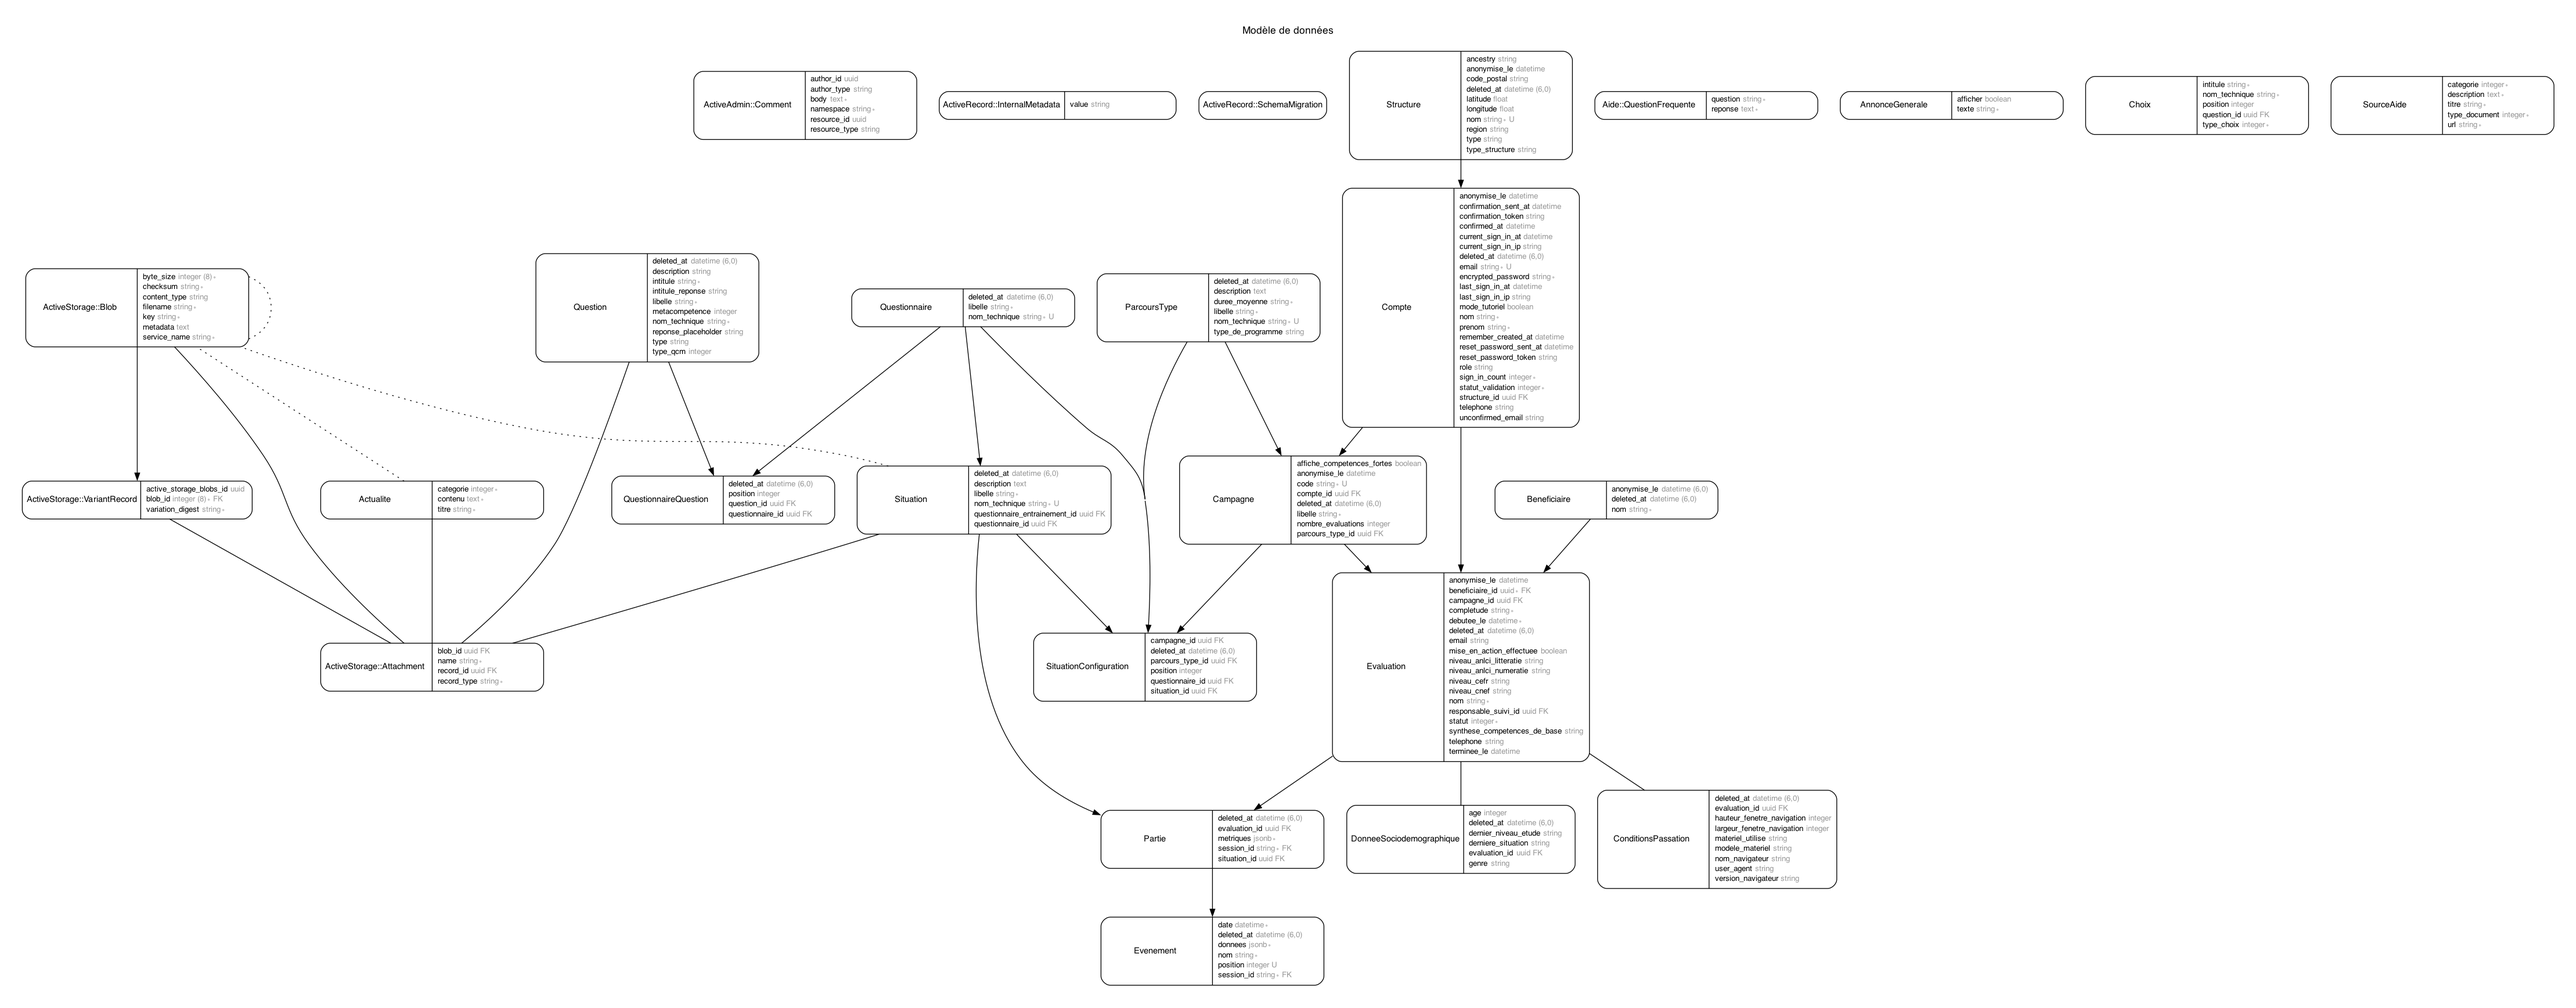
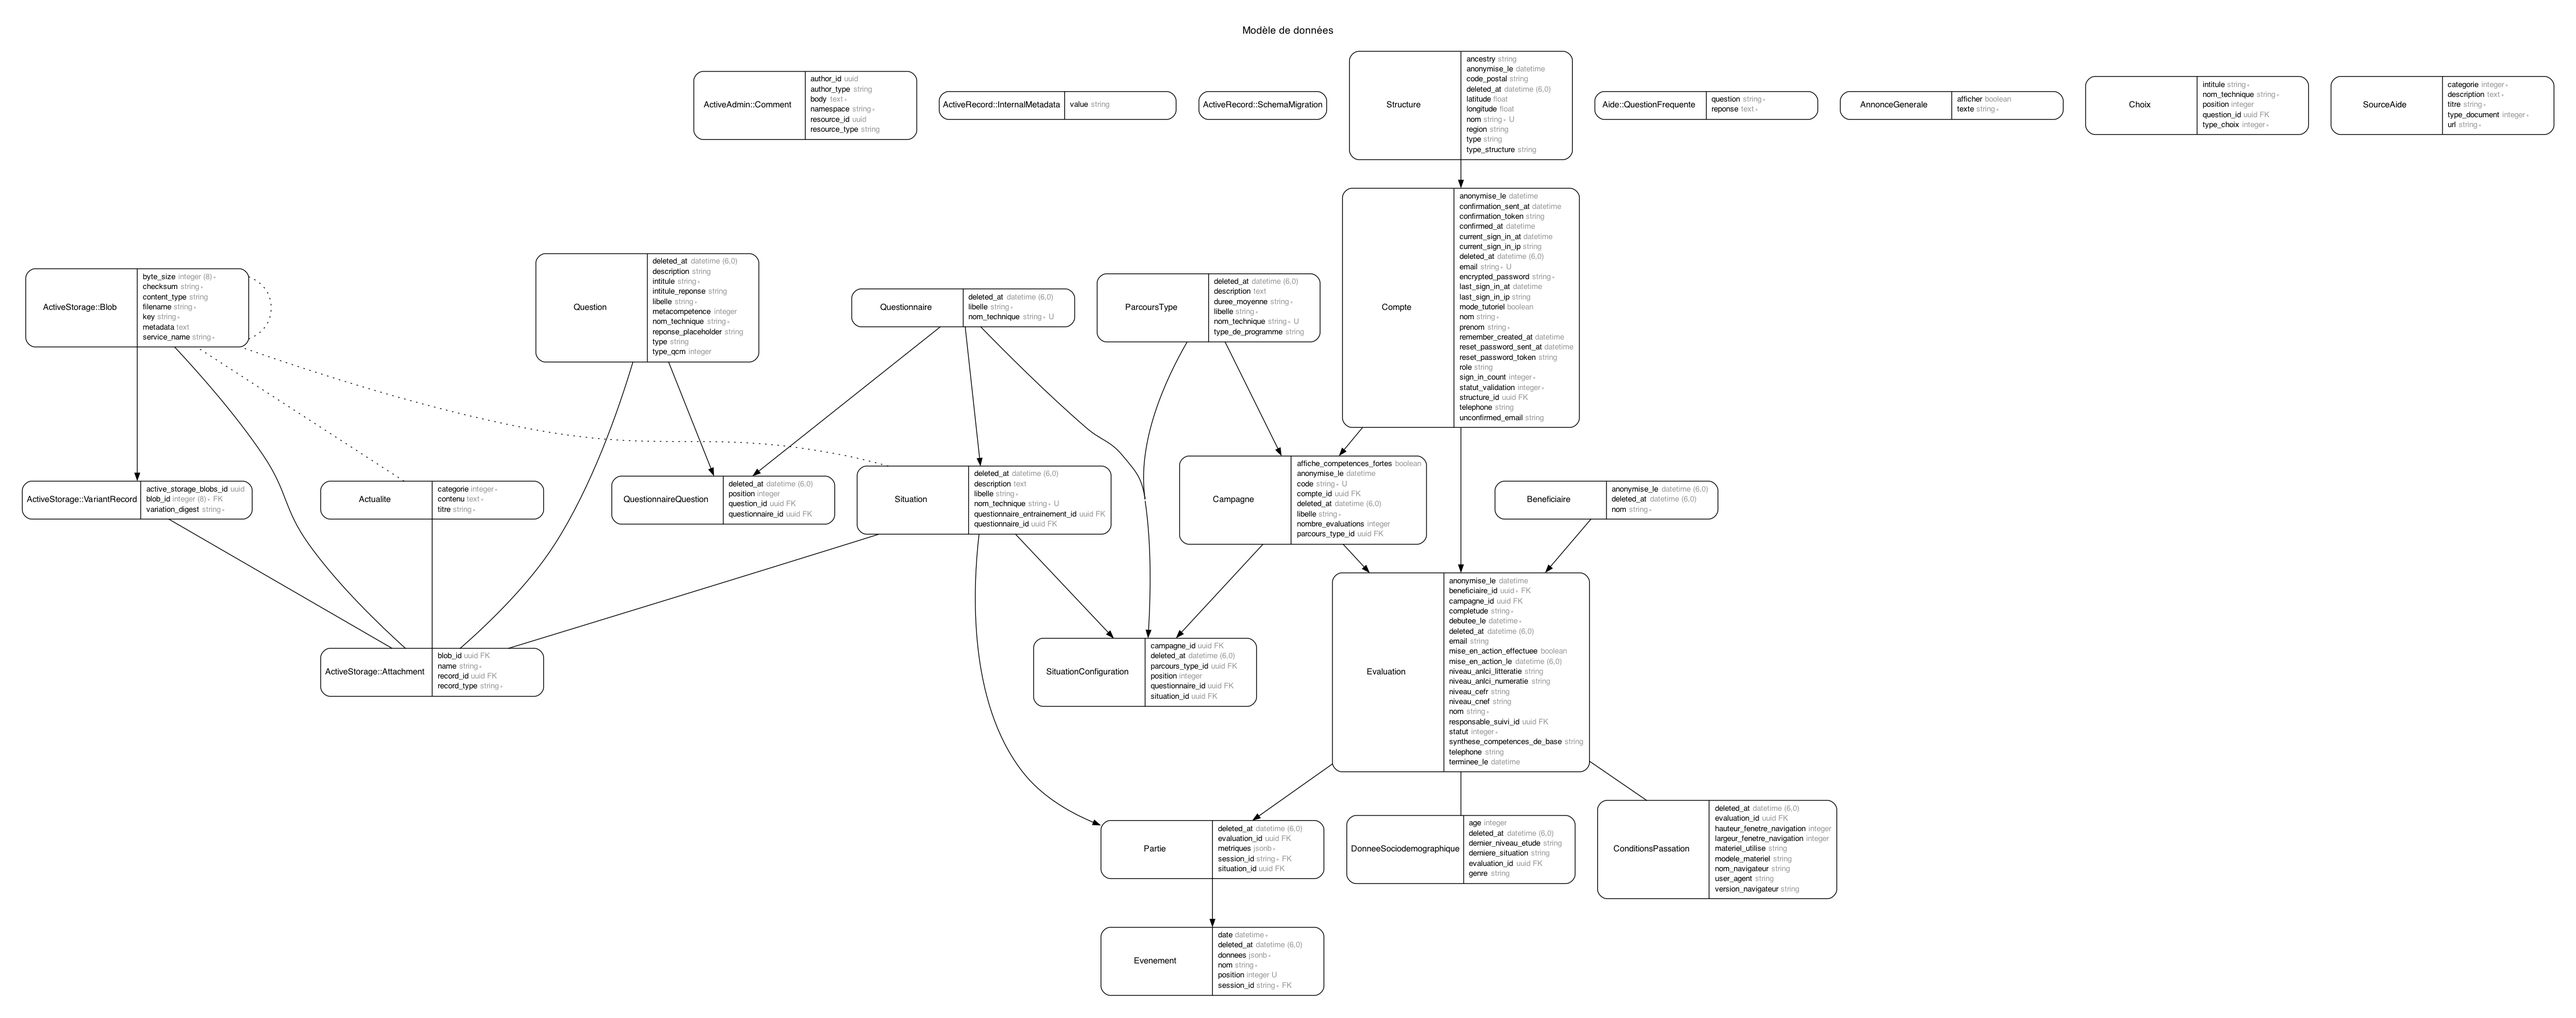
enregistre la date de réponse à la mise en action d'une évaluation

diff --git a/app/assets/javascripts/evaluation.js b/app/assets/javascripts/evaluation.js
@@ -12,7 +12,8 @@ function modifieReponseAccompagnementIllettrisme(evaluationId) {
 
 function enregistreReponseAccompagnementIllettrisme(evaluationId, reponse) {
   const data = {
-    mise_en_action_effectuee: reponse
+    mise_en_action_effectuee: reponse,
+    mise_en_action_le: new Date().toISOString()
   };
   $.ajax({
     method: 'PUT',

diff --git a/db/schema.rb b/db/schema.rb
@@ -10,7 +10,7 @@
 #
 # It's strongly recommended that you check this file into your version control system.
 
-ActiveRecord::Schema[7.0].define(version: 2023_01_25_144905) do
+ActiveRecord::Schema[7.0].define(version: 2023_02_01_135221) do
   # These are extensions that must be enabled in order to support this database
   enable_extension "pgcrypto"
   enable_extension "plpgsql"
@@ -195,6 +195,7 @@ ActiveRecord::Schema[7.0].define(version: 2023_01_25_144905) do
     t.integer "statut", default: 0, null: false
     t.boolean "mise_en_action_effectuee"
     t.uuid "responsable_suivi_id"
+    t.datetime "mise_en_action_le"
     t.index ["beneficiaire_id"], name: "index_evaluations_on_beneficiaire_id"
     t.index ["campagne_id"], name: "index_evaluations_on_campagne_id"
     t.index ["deleted_at"], name: "index_evaluations_on_deleted_at"

diff --git a/app/admin/evaluation.rb b/app/admin/evaluation.rb
@@ -97,7 +97,8 @@ ActiveAdmin.register Evaluation do
   end
 
   member_action :mise_en_action, method: :put do
-    resource.update(mise_en_action_effectuee: params[:mise_en_action_effectuee])
+    resource.update(mise_en_action_effectuee: params[:mise_en_action_effectuee],
+                    mise_en_action_le: params[:mise_en_action_le])
   end
 
   member_action :supprimer_responsable_suivi, method: :patch do

diff --git a/db/migrate/20230201135221_ajoute_mise_en_action_le_a_evaluations.rb b/db/migrate/20230201135221_ajoute_mise_en_action_le_a_evaluations.rb
@@ -1,0 +1,5 @@
+class AjouteMiseEnActionLeAEvaluations < ActiveRecord::Migration[7.0]
+  def change
+    add_column :evaluations, :mise_en_action_le, :datetime
+  end
+end
